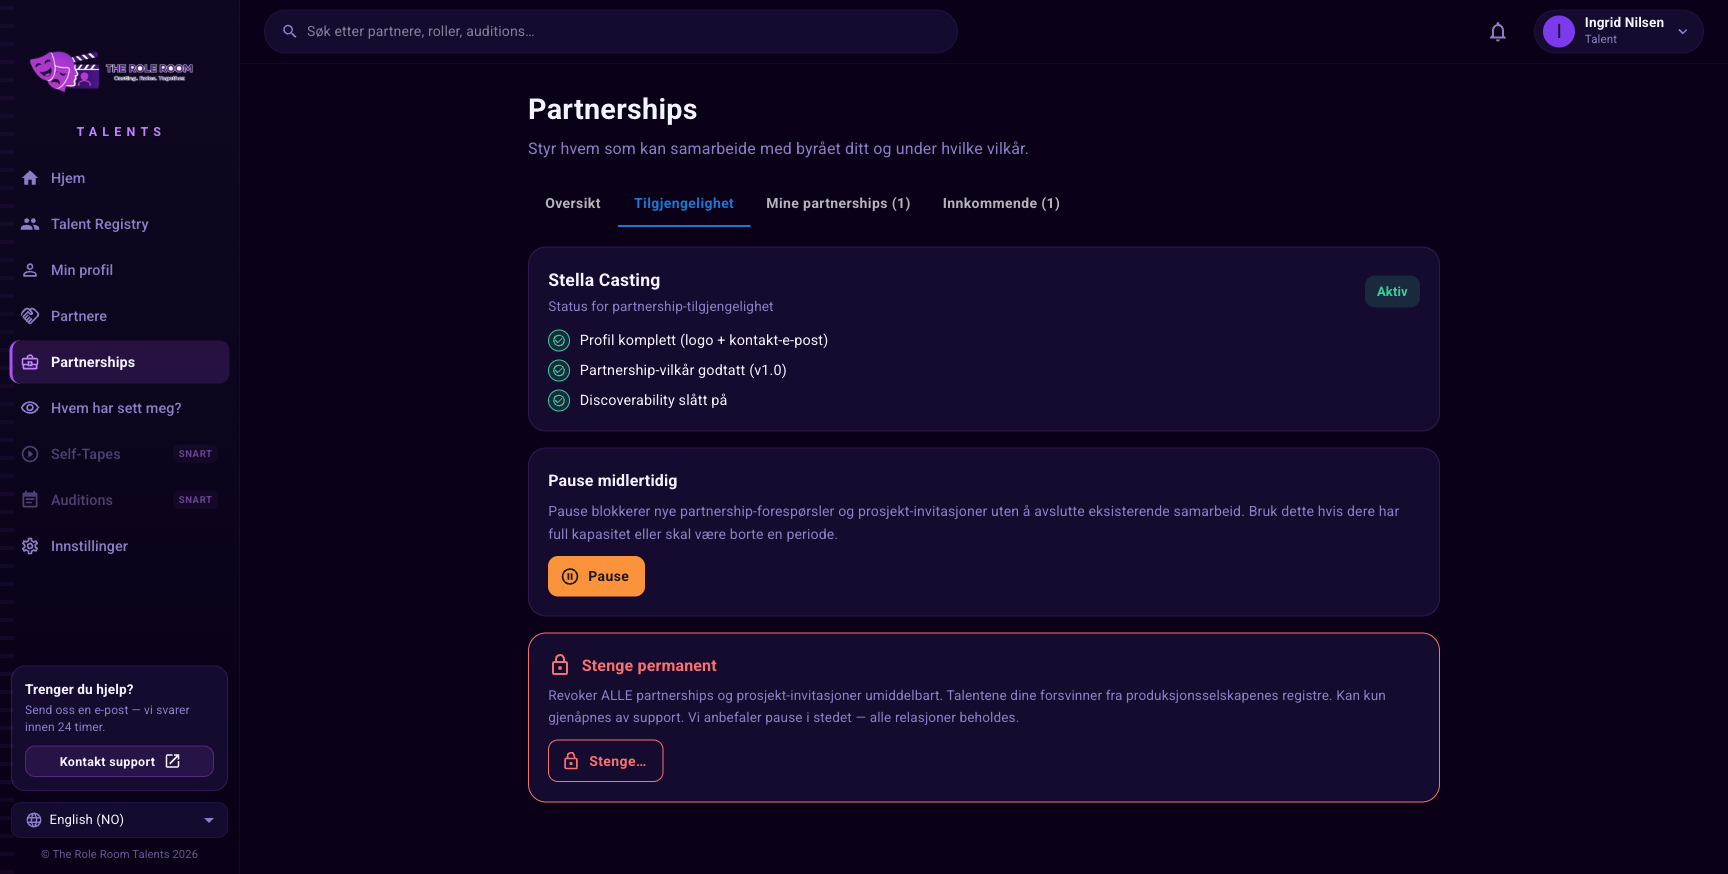
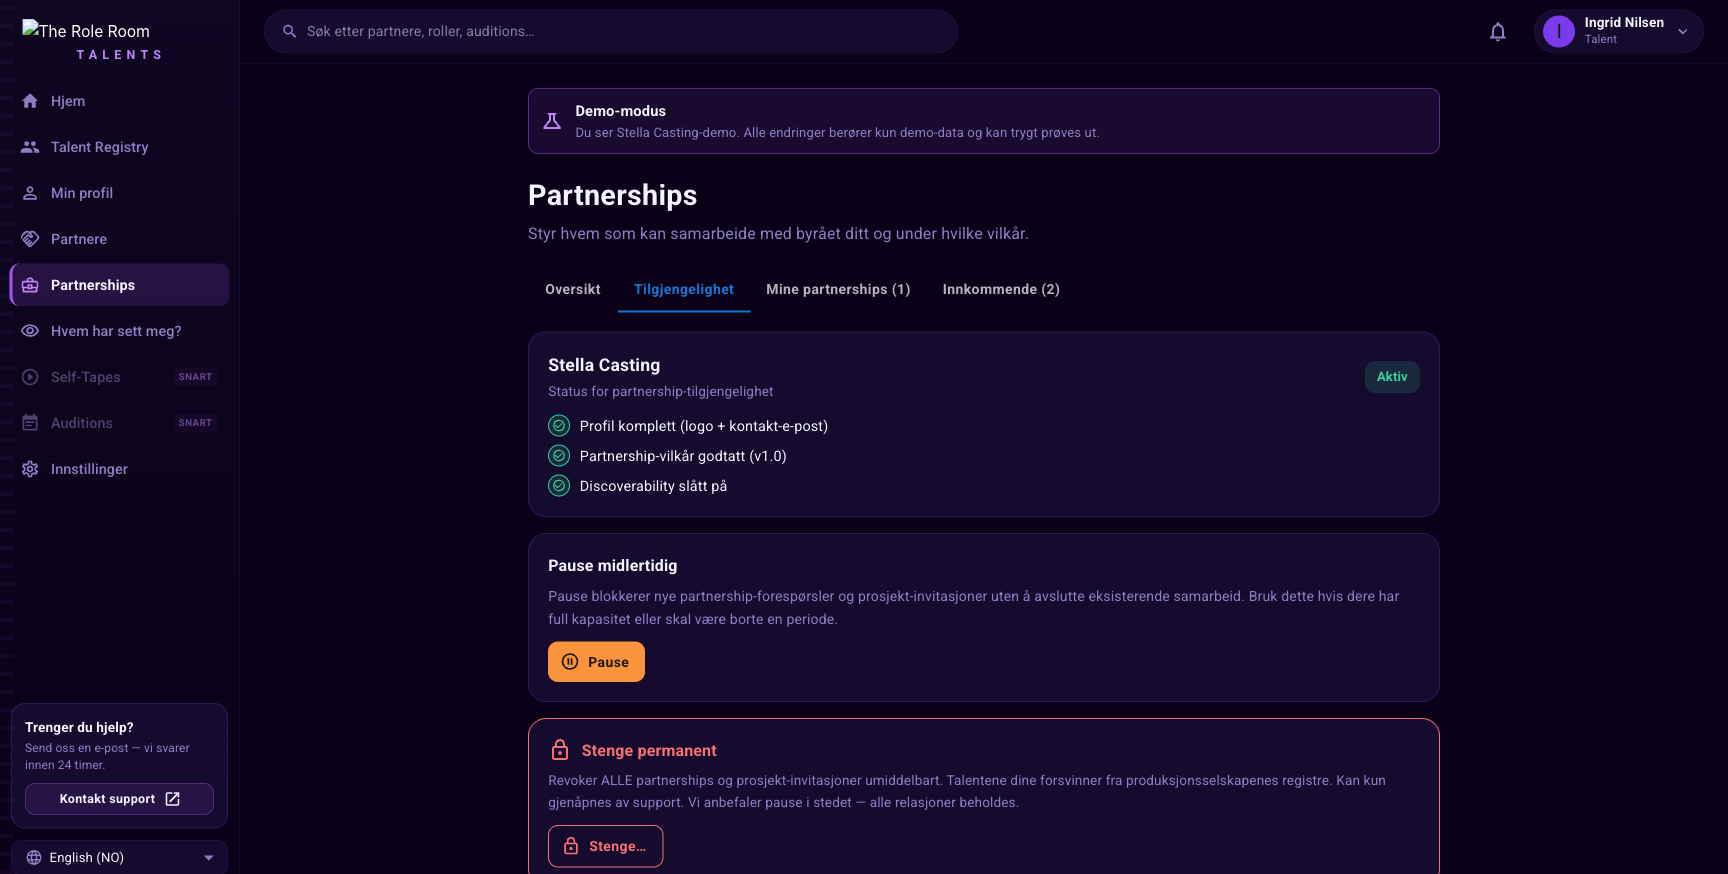
docs(partnerships-demo): v3 — Phase 9.13 UX-forbedringer demonstrert
15-sek MP4 + 5 screenshots etter Phase 9.10–9.13.

Nye UX-elementer synlig på Oversikt-fanen:
- Demo-banner med ScienceOutlinedIcon
- 'Hva nå?'-kort med lilla gradient + CTA-knapp
- Smart-varselbar (gul) for utløp innen 7d
- Klikkbare KPI-er med hover-animasjon
- Mini-sparklines (14d trend) for partnerships + talent-forslag
- Per-prosjekt-progress-strip med gradient progress-bar
- Siste aktivitet-feed med 6 audit-entries
- Talent-pool delt opp i 3 kort

Demo-fixture beriket for å trigge alle UI-elementer:
- 1 pending invitasjon (Dokumentar) — Hva nå?-kortet
- 2 invitasjoner med expires_at < 7d — smart-varselbar
- Elias-forslag akseptert — akseptrate 100%
- 6 nye audit-entries

Talent-registry-flate viser nå ekte sparkline (var fake mock før).

diff --git a/docs/partnerships-demo/README.md b/docs/partnerships-demo/README.md
@@ -1,24 +1,21 @@
-# Partnership-flyten — demo-opptak (v2 med pravatar-portretter)
+# Partnership-flyten — demo-opptak (v3 med Phase 9.13)
 
-24-sekunders gjennomgang av hele Phase 9 bryå-flyten i demo-modus.
-`?demo=1` på alle endepunkter — ingen innlogging kreves.
+15-sekunders gjennomgang av bryå-flyten i demo-modus etter Phase 9.13
+UX-forbedringer.
 
 ## Video
 
-[`partnerships-demo.mp4`](partnerships-demo.mp4) — 1280×648, 30 fps, 8 frames á 3 sek (280 KB).
+[`partnerships-demo.mp4`](partnerships-demo.mp4) — 1280×648, 30 fps, 5 frames á 3 sek (200 KB).
 
 ## Frames
 
 | # | Skjermbilde | Hva som vises |
 |---|---|---|
-| 1 | [01-oversikt.png](01-oversikt.png) | **Oversikt-fanen** med KPI-er: 1 aktiv partnership, 1 prosjekt-invitasjon, 1 talent-forslag, 10 talenter i pool. Status-badge "Aktiv". |
-| 2 | [02-tilgjengelighet.png](02-tilgjengelighet.png) | **Tilgjengelighets-fanen** med progress-stigen (profil ✓, vilkår ✓, discoverability på ✓). Pause + Stenge-handlinger. |
-| 3 | [03-mine-partnerships.png](03-mine-partnerships.png) | **Mine partnerships-fanen** med Daniels produksjon (Aktiv-status). |
-| 4 | [04-innkommende.png](04-innkommende.png) | **Innkommende-fanen** med TROLL-prosjektet aksepterert + "Foreslå talenter"-knapp. |
-| 5 | [05-foresla-modal.png](05-foresla-modal.png) | **ProposeTalentsDialog** med Stella-registret. Elias merket "Allerede foreslått". |
-| 6 | [06-bulk-select.png](06-bulk-select.png) | **Bulk multi-select**: 3 valgte talenter (Amalie, Henrik, Ingrid Vik), bulk-bar med "Foreslå alle valgte"-knapp. |
-| 7 | [07-mine-forslag.png](07-mine-forslag.png) | **Mine forslag-fanen** i ProposeTalentsDialog. |
-| 8 | [08-talent-registry-stella.png](08-talent-registry-stella.png) | **Talent-registry i Stella-kontekst** (via produksjonsteam-eier åpner søkeknappen). Header viser "Stella Casting — talent-register" og **profesjonelle pravatar-headshots** for alle 10 talenter. |
+| 1 | [01-oversikt.png](01-oversikt.png) | **Oversikt-fanen** med ALLE Phase 9.10–9.13 forbedringer: demo-banner, "Hva nå?"-kort (lilla gradient), smart-varselbar (gul), klikkbare KPI-er, mini-sparklines (14d), per-prosjekt-progress-strip (TROLL 100%), siste aktivitet-feed med 6 entries |
+| 2 | [02-tilgjengelighet.png](02-tilgjengelighet.png) | **Tilgjengelighets-fanen** med progress-stigen + pause/steng-handlinger |
+| 3 | [03-mine-partnerships.png](03-mine-partnerships.png) | **Mine partnerships-fanen** med Daniels produksjon (Aktiv-status) |
+| 4 | [04-innkommende.png](04-innkommende.png) | **Innkommende-fanen** med "Venter på svar" (Dokumentarprosjekt) og "Aktive prosjekter" (TROLL) — den nye 2-seksjons-strukturen |
+| 5 | [05-talent-registry-stella.png](05-talent-registry-stella.png) | **Talent-registry i Stella-kontekst** med pravatar-portretter + **ekte dynamisk sparkline** (Register-oversikt) som leser fra `/agency/registry-overview` |
 
 ## Demo-URLer
 
@@ -27,27 +24,37 @@
 /talents/registry?demo=1&agency_type=stella_casting&agency_id=a2222222-2222-2222-2222-2222222222a2
 ```
 
-## Hva er nytt i v2 (vs første opptak)
+## Hva er nytt i v3 (vs v2)
 
-- **Profesjonelle headshots** (pravatar.cc) erstatter randomuser.me-snapshots
-- Bedre kvalitet for sales-pitches og presentasjoner
-- Lisens-frie portretter, alle 400×400 face-cropped
+| Endring | PR |
+|---|---|
+| Demo-banner med ScienceOutlinedIcon | #190 |
+| Stavefiks "Bryå" → "Byrå" (4 filer, 30+ steder) | #190 |
+| Større avatarer (44→52px) + grønn "Foreslått"-chip | #190 |
+| Ingrid Nilsen portrett | #191 |
+| Skeleton-loading istedenfor spinner | #191 |
+| Empty state-illustrasjoner | #191 |
+| **"Hva nå?"-kort** med smart neste-handling | #198 |
+| **Klikkbare KPI-er** + hover-animasjon | #198 |
+| **Tooltips** på alle KPI-er | #198 |
+| **Mini-sparklines** (14d trend) | #199 |
+| **Per-prosjekt-progress-strip** med gradient-bar | #199 |
+| **Smart-varselbar** for utløp innen 7d | #199 |
+| **Ekte sparkline** i Register-oversikt (var fake mock før) | #201 |
+
+## Demo-fixture-data
+- Stella Casting demo-byrå
+- 1 akseptert partnership (Daniels produksjon)
+- 1 akseptert prosjekt-invitasjon (TROLL, utløper om 5d)
+- 1 pending prosjekt-invitasjon (Dokumentar, utløper om 3d) — trigger smart-varsel
+- 1 akseptert talent-forslag (Elias Berg) — akseptrate 100%
+- 6 audit-entries — viser "Siste aktivitet"-feeden
+- 10 talenter i pool med pravatar.cc-headshots
 
 ## Slik regenererer du
 
 ```bash
-# 1. Naviger til hver flate i Playwright/Chrome med ?demo=1
-# 2. Ta screenshot per flate (1728×874 viewport)
-# 3. Crop hvis du har full-page-screenshots til samme høyde
-# 4. Sett sammen til MP4:
 ffmpeg -framerate 1/3 -pattern_type glob -i 'docs/partnerships-demo/*.png' \
   -c:v libx264 -pix_fmt yuv420p -vf "scale=1280:-2" -r 30 \
   docs/partnerships-demo/partnerships-demo.mp4
 ```
-
-## Tekniske detaljer
-
-- **Demo-modus**: ?demo=1 på alle endepunkter, demo-user (99999...) koblet til Stella demo-agency via migrate 227
-- **Demo-fixture**: 1 partnership (accepted) + 1 prosjekt-invitasjon (accepted) + 1 talent-forslag (pending) — alle satt opp via direkte SQL for E2E-verifisering
-- **Phase 9-stack**: PR-ene #95 → #170 leverer hele flyten
-- **Migrate 228**: bytter portretter fra randomuser.me → pravatar.cc
